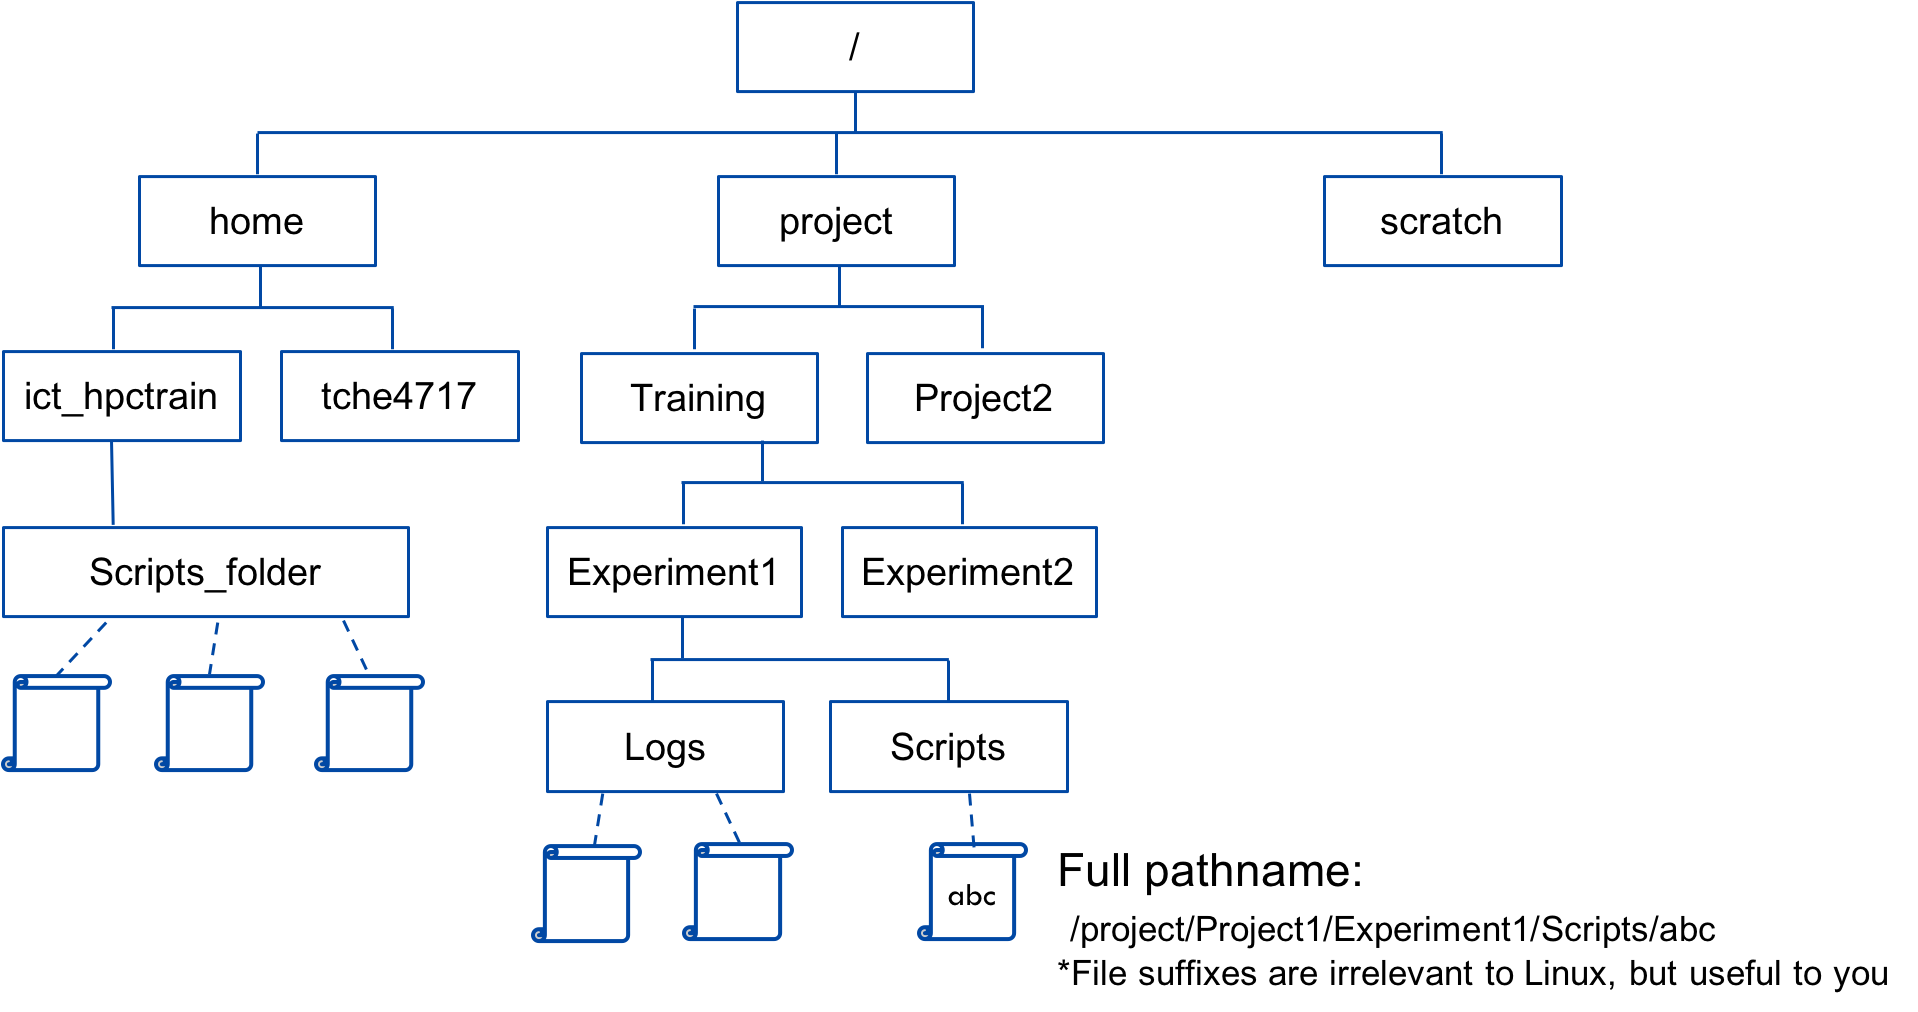
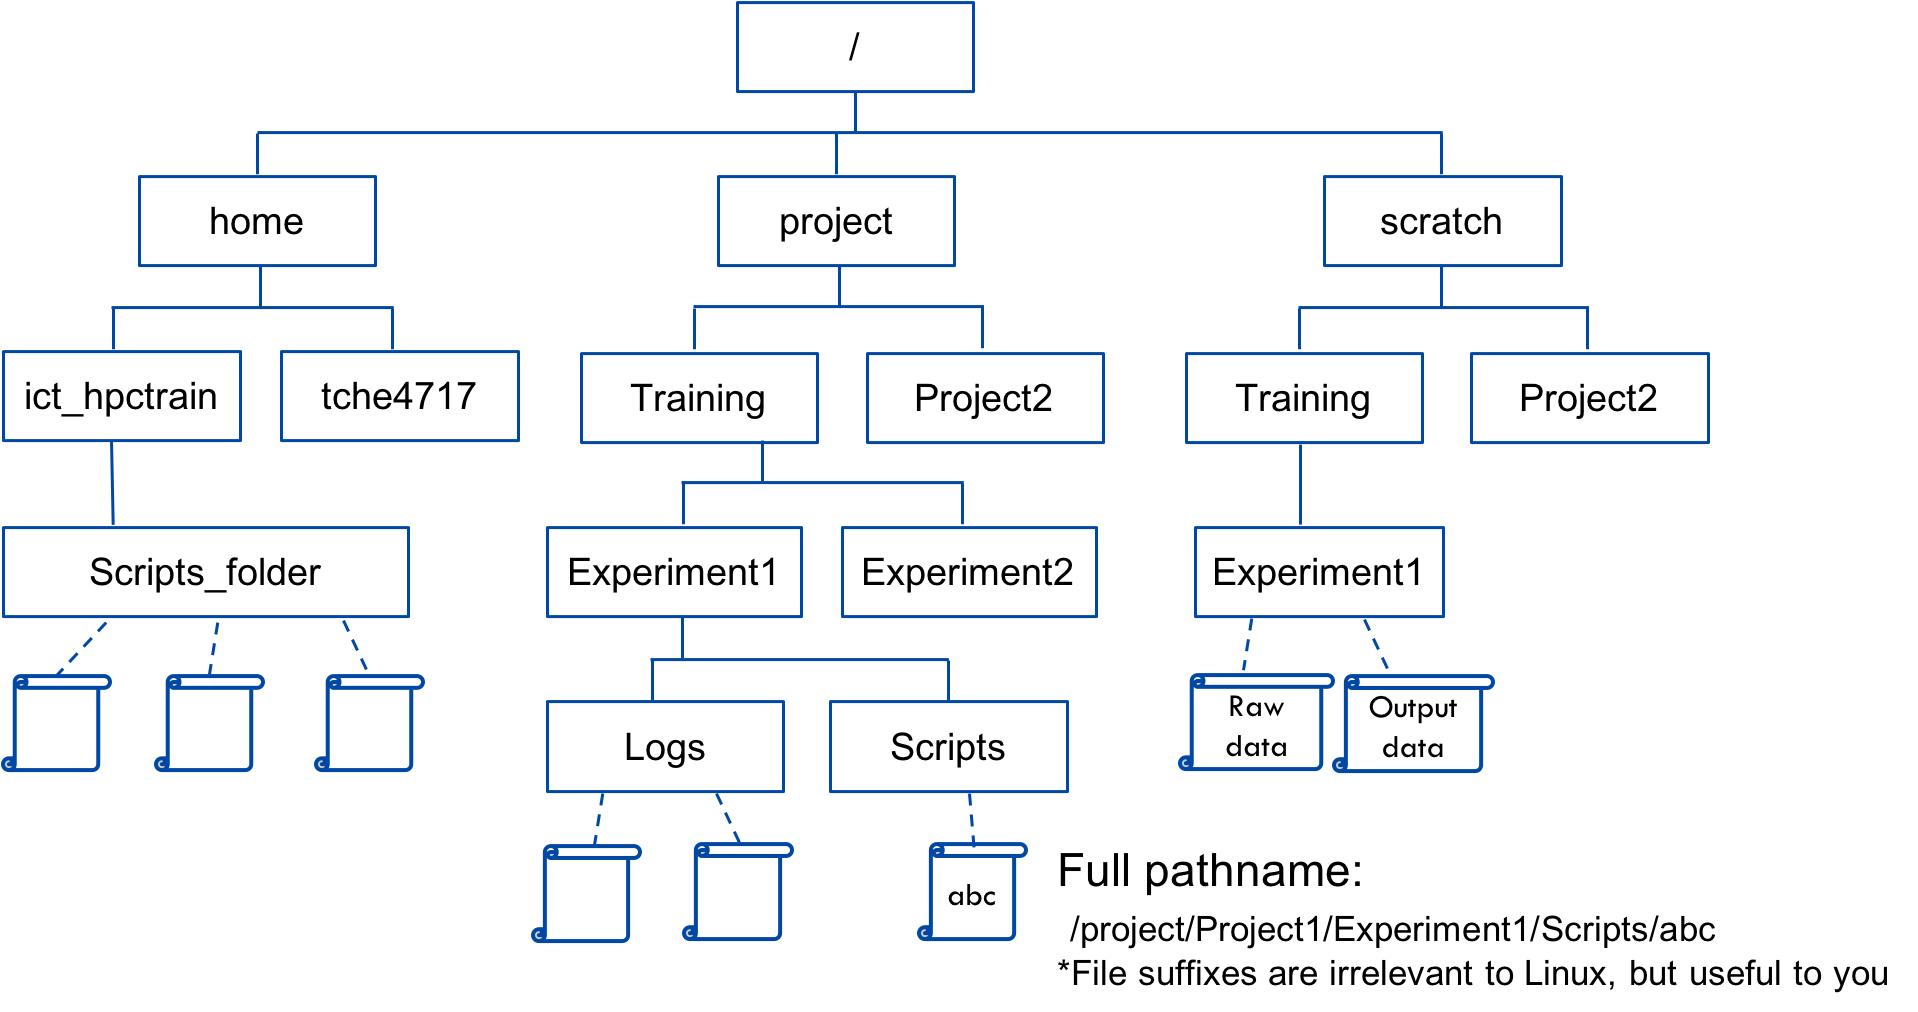
added /scratch

diff --git a/_episodes/02-navigating-artemis.md b/_episodes/02-navigating-artemis.md
@@ -116,13 +116,38 @@ So, for example, change into the project directory of the 'Training' project wit
 
 ### iii. /scratch
 
+Every project also has a **/scratch** directory, at ```/scratch/<Short_name>```. **/scratch** is where you should actually _perform_ your computations. What does this mean? If your workflow
+* Has big data inputs
+* Generates big data outputs
+* Generates lots of intermediate data files which are not needed afterward
 
+then you should put and save this data in your **/scratch** space. The reasons are that you are not limited to **1 TB** of space in **/scratch** as you are in **/project**, and there is also no reason to clutter up your shared project directories with temporary files. Once your computation is complete, simply copy the important or re-used inputs and outputs back to your **/project** folder, and delete your data in **/scratch** -- that's why it's called scratch!
 
+<br>
+> ## Your data should not be kept on Artemis!
+>
+> Wait, what? Your data, _long-term_, should _not_ be stored on Artemis, neither in **/project** nor **/scratch**. Artemis is _not_ backed-up, and has _limited space_.
+> <hr>
+> <p style="text-align:center;font-weight:bold;text-decoration:underline">Inactive data in /project is wiped after 6 months, and in /scratch after 3 months!</p>
+> <hr>
+> Data that you are _currently_ working with should be transferred into your **/project** folder (or **/scratch** if it is very large!), and then transferred back to it's permanent location when you're done with that part of your investigation. For more, see the [Data transfer and RDS for HPC](https://pages.github.sydney.edu.au/informatics/training.artemis.rds) course.
+>
+> <p style="text-align:center"><img src="/fig/02_data_flow.png" style="margin:10px;height:100px"/></p>
+>
+{: .callout}
+
+<br>
 ## Writing script files
 
 ### Text editors
 
-### i. Nano
+Artemis has a number of **text editors** available for use, and of course you could install your own. Text editors are simple-to-sophisticated programs that let you, quite simply, write text! At the most basic level, they do not have any _formatting_, like **bold** etc, but are just plain text. Some allow the composition of _'rich text'_, which does add formatting.
+
+Microsoft Word is not
+
+### i. nano
+
+### ii. gedit
 
 
 <br>   
